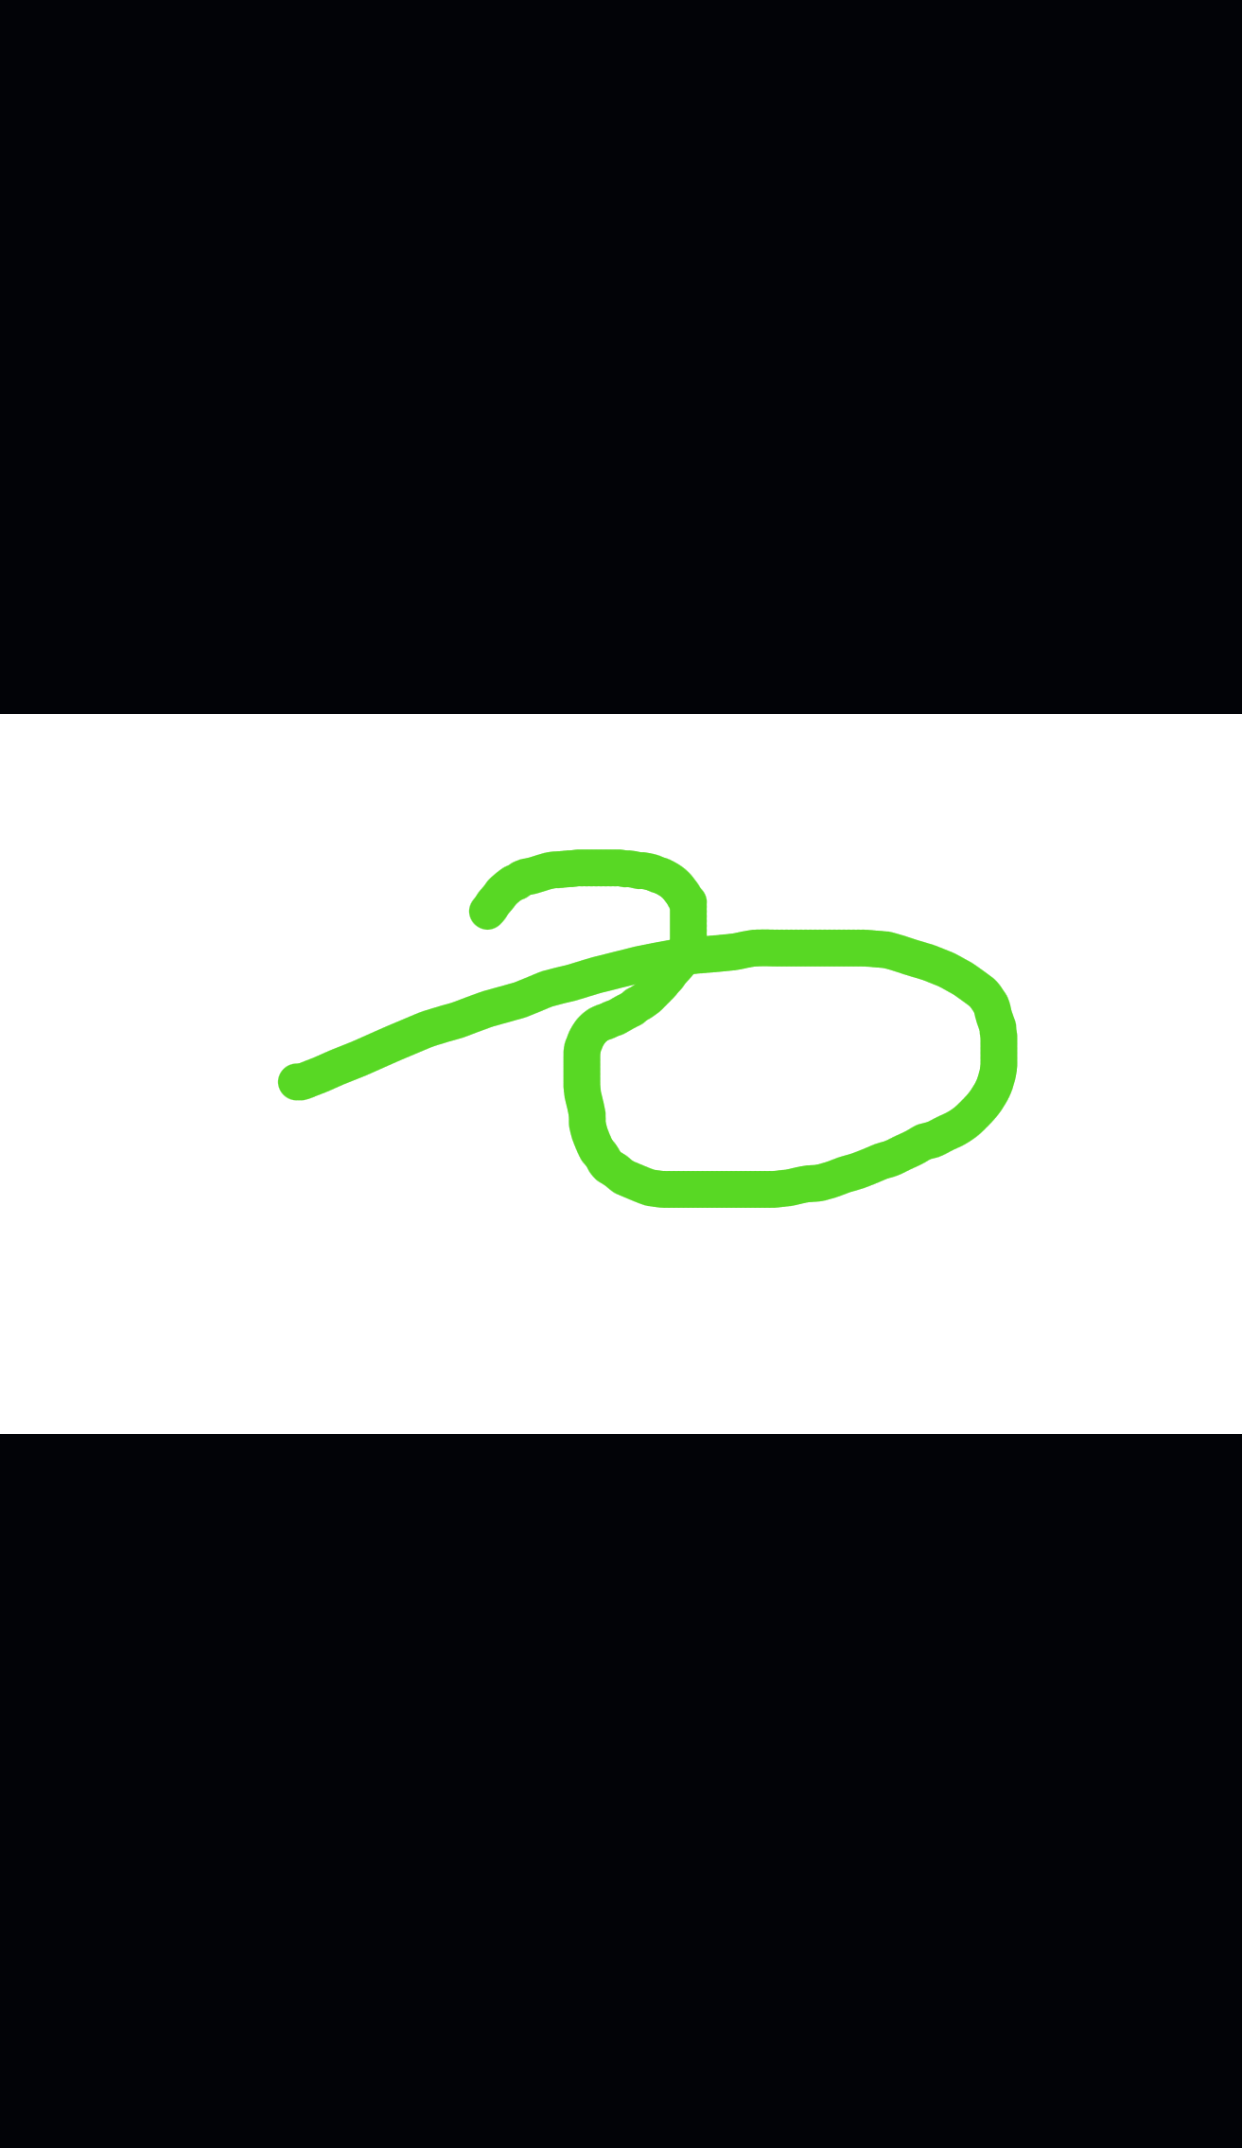
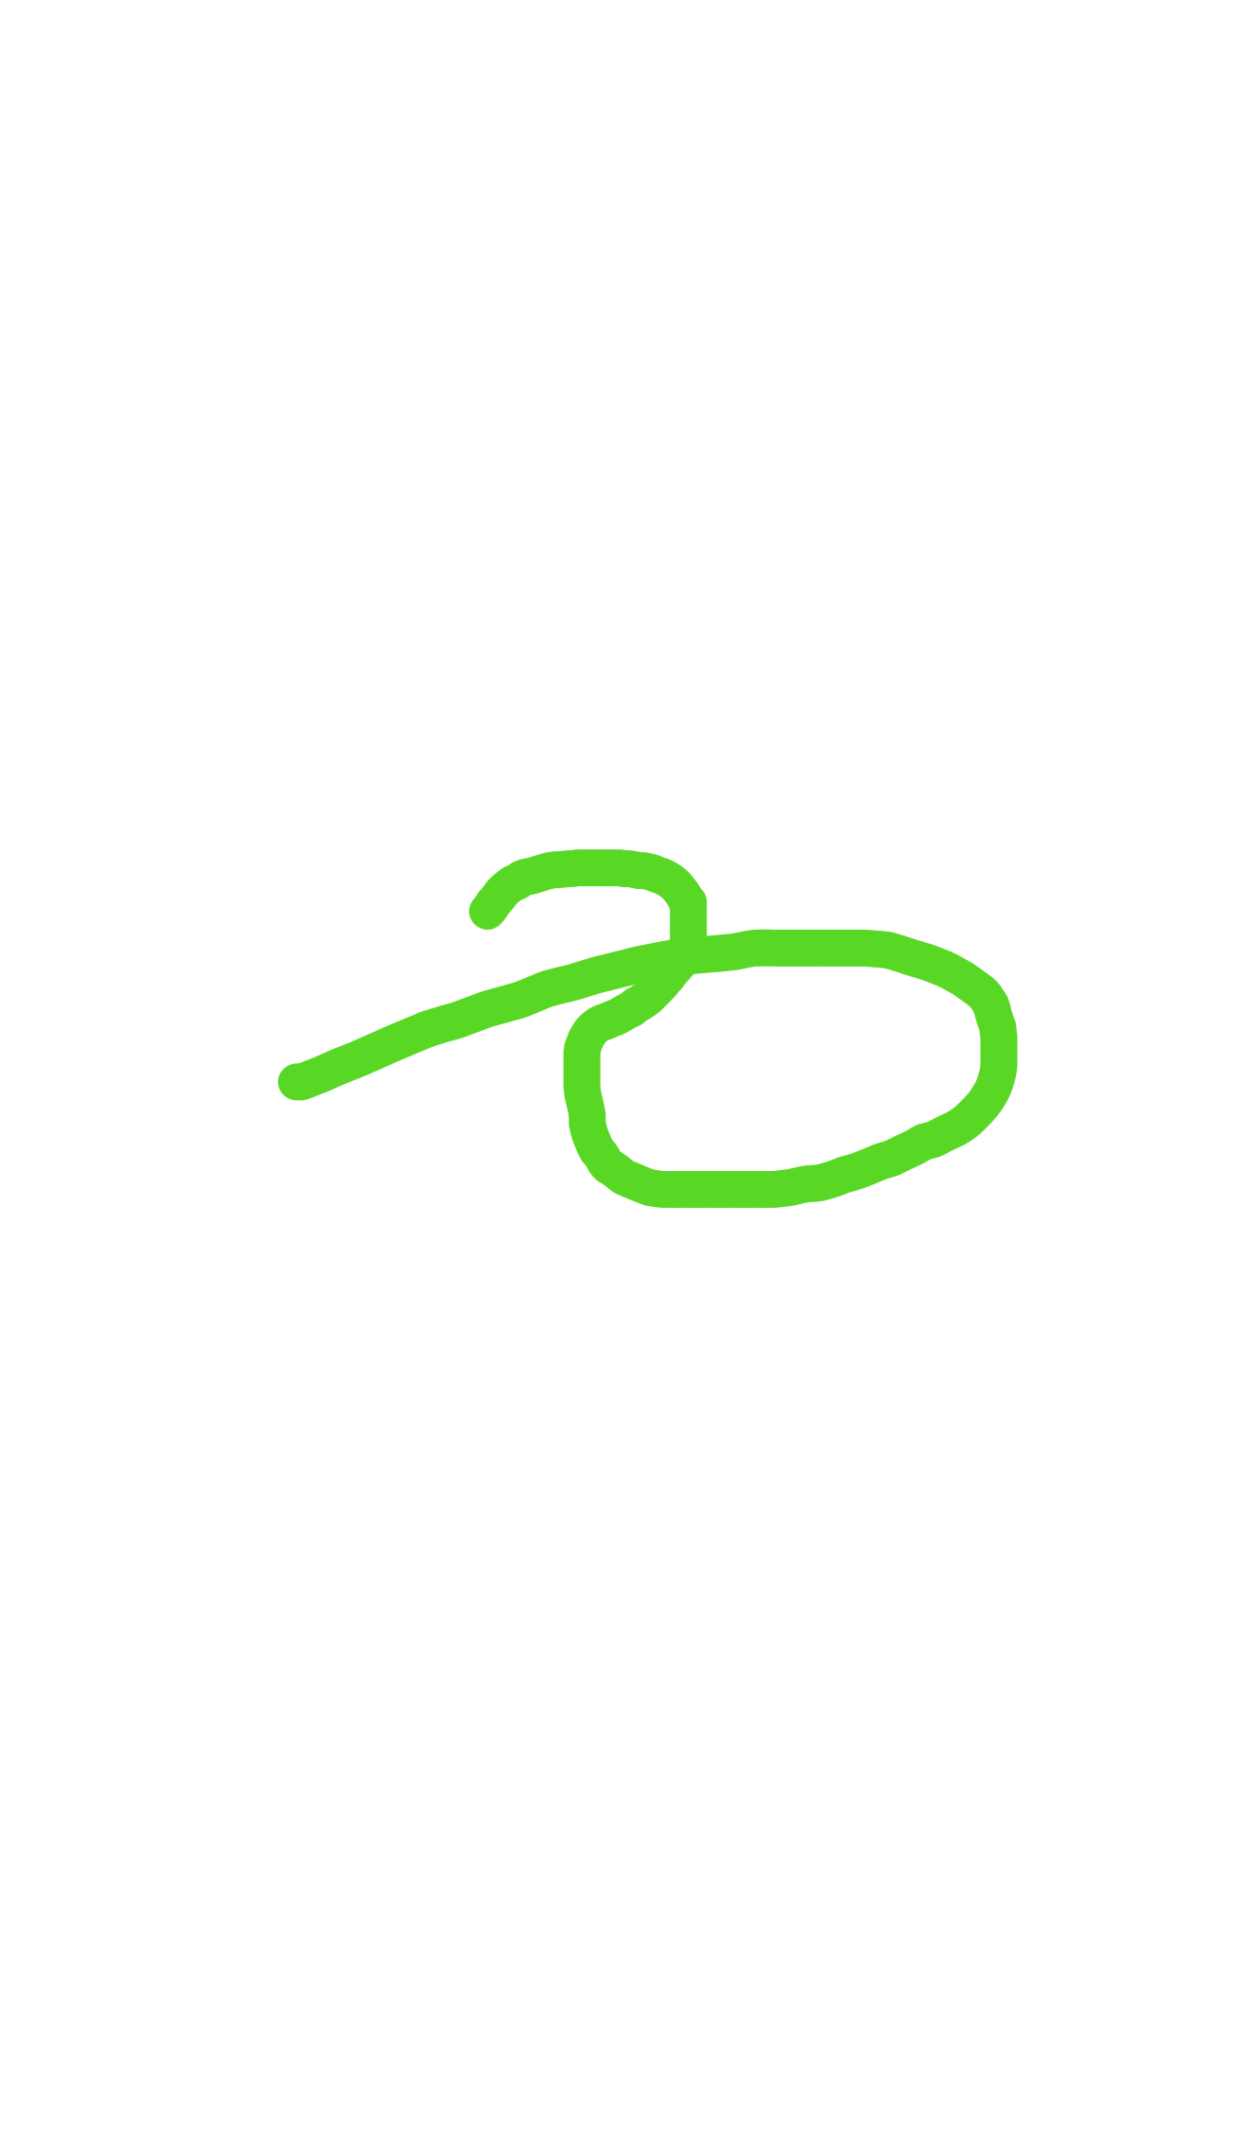
remove foresty info

diff --git a/static/favicons.html b/static/favicons.html
@@ -30,7 +30,7 @@
 <link rel="apple-touch-startup-image" media="(device-width: 768px) and (device-height: 1024px) and (orientation: landscape) and (-webkit-device-pixel-ratio: 2)" href="/apple-touch-startup-image-1496x2048.png">
 <link rel="apple-touch-startup-image" media="(device-width: 768px) and (device-height: 1024px) and (orientation: portrait) and (-webkit-device-pixel-ratio: 2)" href="/apple-touch-startup-image-1536x2008.png">
 <link rel="icon" type="image/png" sizes="228x228" href="/coast-228x228.png">
-<meta name="msapplication-TileColor" content="#020307">
+<meta name="msapplication-TileColor" content="#ffffff">
 <meta name="msapplication-TileImage" content="/mstile-144x144.png">
 <meta name="msapplication-config" content="/browserconfig.xml">
 <link rel="yandex-tableau-widget" href="/yandex-browser-manifest.json">

diff --git a/gulpfile.js b/gulpfile.js
@@ -49,7 +49,7 @@ function favicon(){
                 appDescription: 'Eskimo-Nation',
                 developerName: 'David Nash',
                 developerURL: 'https://www.eskimo-nation.co.uk/',
-                background: '#020307',
+                background: '#ffffff',
                 path: '/',
                 lang: "en-GB",
                 url: 'https://www.eskimo-nation.co.uk/',
